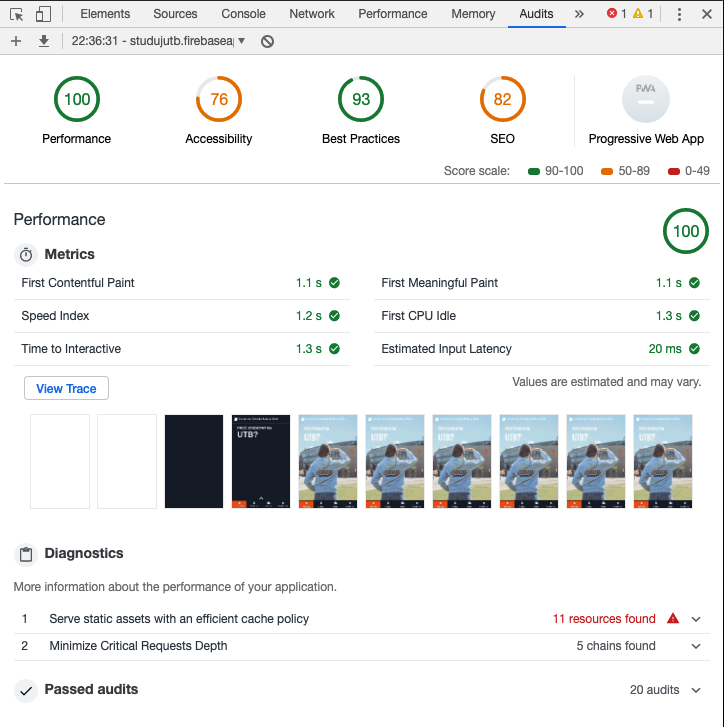
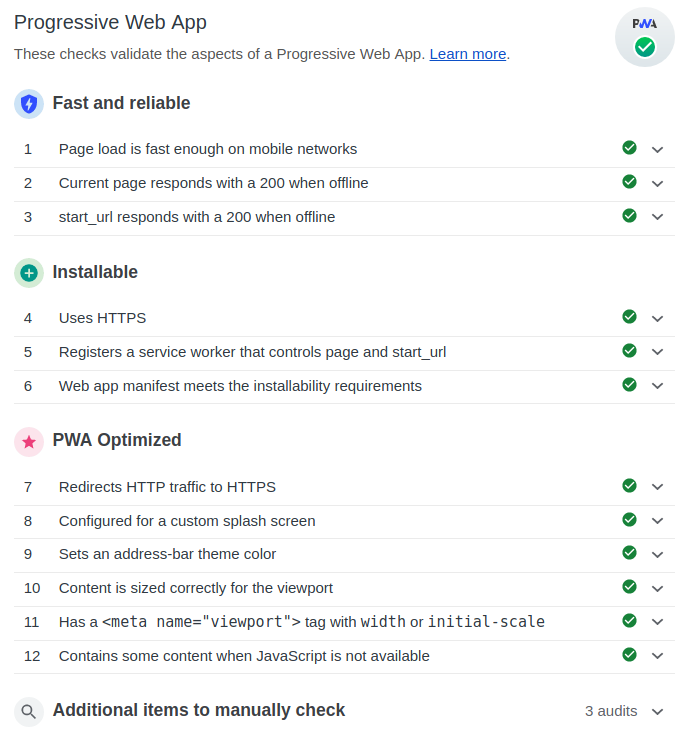
Update lighthouse slides & add full screen new version screenshot

diff --git a/src/presentation.js b/src/presentation.js
@@ -34,11 +34,10 @@ import sw11cacheResponse from './assets/sw11cacheResponse.png';
 import sw12cacheResponseOffline from './assets/sw12cacheResponseOffline.png';
 
 import newVersionAvailablePopup from './assets/newVersionAvailablePopup.jpg';
+import newVersionAvailableFullscreen from './assets/newVersionAvailableFullscreen.png';
 import updatingServiceWorker from './assets/updatingServiceWorker.jpg';
 
-import lighthouseTab from './assets/lighthouse-tab.png';
 import lighthouseResults from './assets/lighthouse-results.png';
-import lighthouseFailed from './assets/lighthouse-failed.png';
 
 import manifestTab from './assets/manifest-tab.png';
 import serviceworkersTab from './assets/serviceworkers-tab.png';
@@ -296,7 +295,7 @@ export default class Presentation extends React.Component {
             Registration
           </Heading>
           <CodePane
-            textSize="28px"
+            textSize="26px"
             lang="js"
             theme="external"
             source={require('./assets/serviceWorkerRegistration.js.example')}
@@ -386,8 +385,18 @@ export default class Presentation extends React.Component {
             What about caching dynamic data?
           </Heading>
           <List>
-            {this.renderListItem("Service worker")}
-            {this.renderListItem(<>Redux Persist<Appear><span> – with additional offline detection & error handling</span></Appear></>)}
+            {this.renderListItem('Service worker')}
+            {this.renderListItem(
+              <>
+                Redux Persist
+                <Appear>
+                  <span>
+                    {' '}
+                    – with additional offline detection & error handling
+                  </span>
+                </Appear>
+              </>,
+            )}
           </List>
         </Slide>
 
@@ -428,7 +437,7 @@ export default class Presentation extends React.Component {
               <ListItem>Precache manifest generated automatically</ListItem>
             </Appear>
             <Appear>
-              <ListItem>Static asset caching by default</ListItem>
+              <ListItem>Static assets cached by default</ListItem>
             </Appear>
           </List>
         </Slide>
@@ -442,12 +451,20 @@ export default class Presentation extends React.Component {
             When does the browser check for updates?
           </Heading>
           <List>
-            {this.renderListItem("On page reload")}
-            {this.renderListItem("When you close and reopen the app")}
-            {this.renderListItem("User goes to a different page – does not work in SPA, workaround needed")}
-            {this.renderListItem("Every 24 hours")}
+            {this.renderListItem('On page reload')}
+            {this.renderListItem('When you close and reopen the app')}
+            {this.renderListItem(
+              'User goes to a different page – does not work in SPA, workaround needed',
+            )}
+            {this.renderListItem('Every 24 hours')}
           </List>
-          <Appear><div><Text margin="50px 0">Make sure your service worker is NOT cached!</Text></div></Appear>
+          <Appear>
+            <div>
+              <Text margin="50px 0">
+                Make sure your service worker is NOT cached!
+              </Text>
+            </div>
+          </Appear>
         </Slide>
 
         <Slide transition={['fade']}>
@@ -456,17 +473,24 @@ export default class Presentation extends React.Component {
           </Heading>
           <List>
             {this.renderListItem('New worker enters the “waiting” state')}
-            {this.renderListItem("Refreshing the page is not enough!")}
-            {this.renderListItem("Old app must be closed to activate the new worker")}
-            {this.renderListItem("Solution: App refresh popup")}
+            {this.renderListItem('Refreshing the page is not enough!')}
+            {this.renderListItem(
+              'Old app must be closed to activate the new worker',
+            )}
+            {this.renderListItem('Solution: App refresh popup')}
           </List>
         </Slide>
 
-        <Slide transition={['fade']} bgColor="primary" textColor="secondary">
+        <Slide transition={['fade']}>
           <Image src={newVersionAvailablePopup} />
         </Slide>
 
-        <Slide transition={['fade']} bgColor="primary" textColor="secondary">
+        <Slide transition={['fade']}>
+          <Image src={newVersionAvailableFullscreen} />
+        </Slide>
+        
+
+        <Slide transition={['fade']}>
           <Image src={updatingServiceWorker} />
           <Link href="https://deanhume.com/displaying-a-new-version-available-progressive-web-app/">
             https://deanhume.com/displaying-a-new-version-available-progressive-web-app/
@@ -597,7 +621,7 @@ export default class Presentation extends React.Component {
         <Slide transition={['fade']}>
           <Heading size={3}>Testing and tooling</Heading>
           <List>
-            {this.renderListItem('Cypress, Selenium for automation')}
+            {this.renderListItem('Automated testing tools same as non-PWA')}
             {this.renderListItem('Lighthouse')}
           </List>
         </Slide>
@@ -610,46 +634,15 @@ export default class Presentation extends React.Component {
             )}
             {this.renderListItem('Accessible via Chrome Dev Tools')}
             {this.renderListItem('Supported on any kind of web pages')}
-            {this.renderListItem('Includes many different types of audits')}
+            {this.renderListItem(
+              'Includes many different types of audits, including PWA',
+            )}
           </List>
         </Slide>
 
         <Slide transition={['fade']}>
-          <Heading size={3}>Lighthouse audit types</Heading>
-          <List>
-            {this.renderListItem('Mobile/Desktop responsiveness')}
-            {this.renderListItem('Performance')}
-            {this.renderListItem('PWA checklist')}
-            {this.renderListItem('Best Practices')}
-            {this.renderListItem('Accessibility')}
-            {this.renderListItem('SEO')}
-            {this.renderListItem('Network Simulation')}
-          </List>
-        </Slide>
-
-        <Slide transition={['fade']}>
-          <Heading size={4}>Lighthouse – initial setup</Heading>
-          <Image src={lighthouseTab} />
-        </Slide>
-
-        <Slide transition={['fade']}>
-          <Heading size={4}>Audit Results</Heading>
+          <Heading size={4}>PWA audit results</Heading>
           <Image src={lighthouseResults} />
-        </Slide>
-
-        <Slide transition={['fade']}>
-          <Heading size={4}>Audit Results</Heading>
-          <List>
-            {this.renderListItem(
-              'Provides detailed information about each section',
-            )}
-            {this.renderListItem(
-              'Shows you the exact spot where you can improve your app',
-            )}
-            <Appear>
-              <Image src={lighthouseFailed} />
-            </Appear>
-          </List>
         </Slide>
 
         <Slide>
